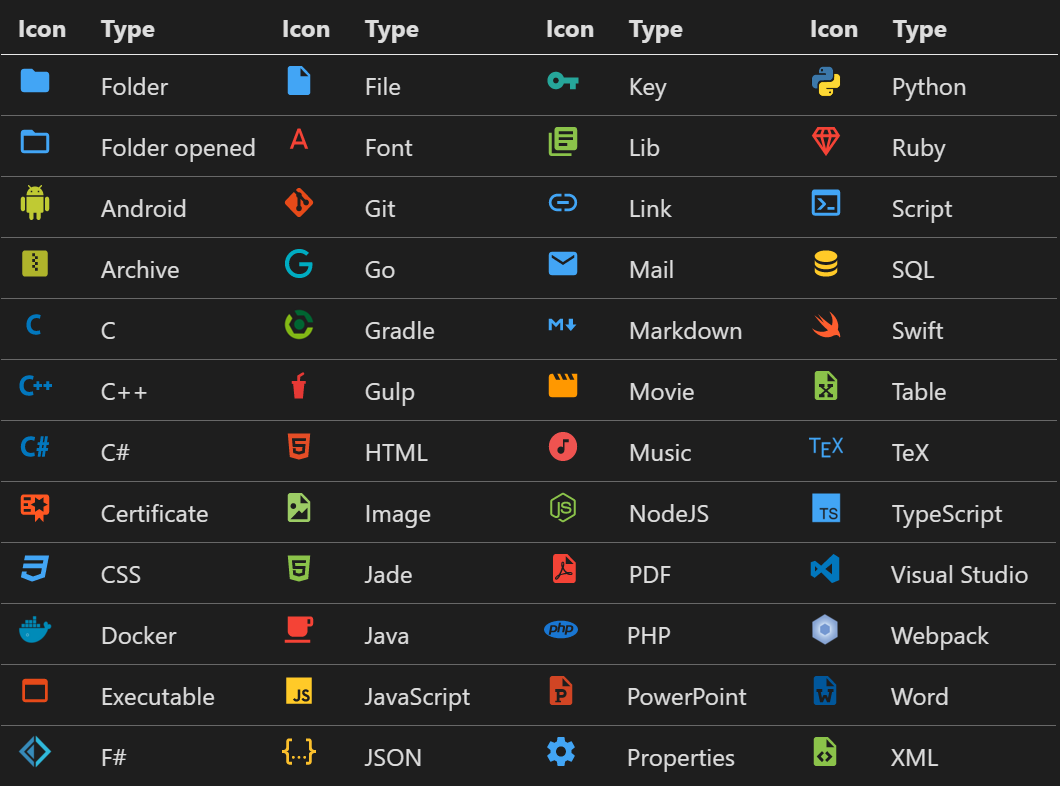
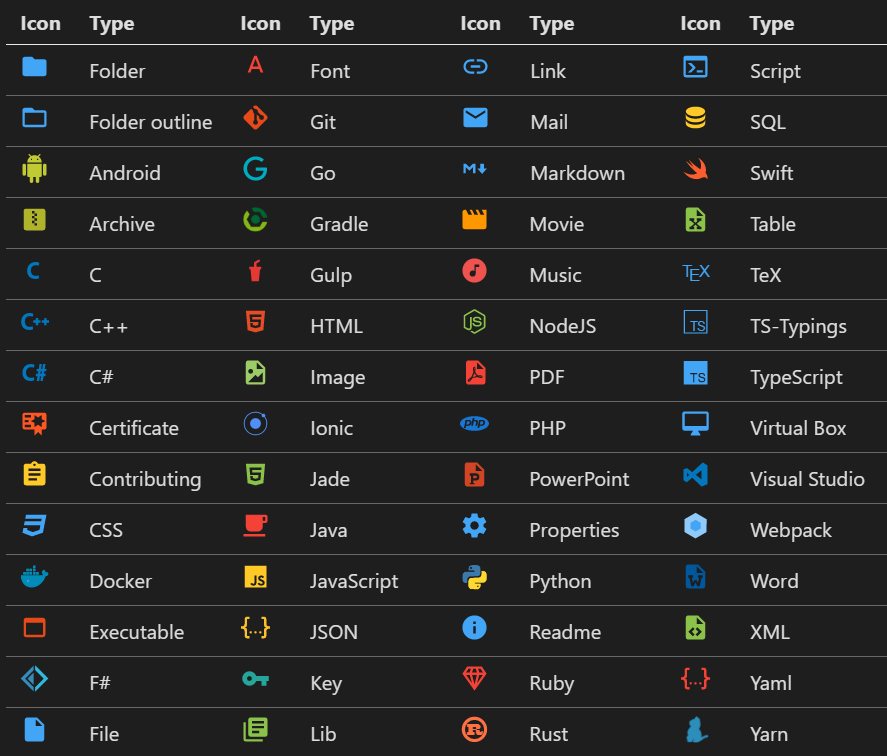
updated iconset image

diff --git a/src/allicons.md b/src/allicons.md
@@ -8,6 +8,7 @@
 |<img src="./../fileicons/icons/cpp.svg" width="20px">|C++|
 |<img src="./../fileicons/icons/csharp.svg" width="20px">|C#|
 |<img src="./../fileicons/icons/certificate.svg" width="20px">|Certificate|
+|<img src="./../fileicons/icons/contributing.svg" width="20px">|Contributing|
 |<img src="./../fileicons/icons/css.svg" width="20px">|CSS|
 |<img src="./../fileicons/icons/docker.svg" width="20px">|Docker|
 |<img src="./../fileicons/icons/exe.svg" width="20px">|Executable|
@@ -20,6 +21,7 @@
 |<img src="./../fileicons/icons/gulp.svg" width="20px">|Gulp|
 |<img src="./../fileicons/icons/html.svg" width="20px">|HTML|
 |<img src="./../fileicons/icons/image.svg" width="20px">|Image|
+|<img src="./../fileicons/icons/ionic.svg" width="20px">|Ionic|
 |<img src="./../fileicons/icons/jade.svg" width="20px">|Jade|
 |<img src="./../fileicons/icons/java.svg" width="20px">|Java|
 |<img src="./../fileicons/icons/javascript.svg" width="20px">|JavaScript|
@@ -37,15 +39,20 @@
 |<img src="./../fileicons/icons/powerpoint.svg" width="20px">|PowerPoint|
 |<img src="./../fileicons/icons/settings.svg" width="20px">|Properties|
 |<img src="./../fileicons/icons/python.svg" width="20px">|Python|
+|<img src="./../fileicons/icons/readme.svg" width="20px">|Readme|
 |<img src="./../fileicons/icons/ruby.svg" width="20px">|Ruby|
+|<img src="./../fileicons/icons/rust.svg" width="20px">|Rust|
 |<img src="./../fileicons/icons/console.svg" width="20px">|Script|
 |<img src="./../fileicons/icons/database.svg" width="20px">|SQL|
 |<img src="./../fileicons/icons/swift.svg" width="20px">|Swift|
 |<img src="./../fileicons/icons/table.svg" width="20px">|Table|
 |<img src="./../fileicons/icons/tex.svg" width="20px">|TeX|
 |<img src="./../fileicons/icons/typescript.svg" width="20px">|TypeScript|
+|<img src="./../fileicons/icons/typescript-def.svg" width="20px">|TS-Typings|
 |<img src="./../fileicons/icons/virtual.svg" width="20px">|Virtual Box|
 |<img src="./../fileicons/icons/visualstudio.svg" width="20px">|Visual Studio|
 |<img src="./../fileicons/icons/webpack.svg" width="20px">|Webpack|
 |<img src="./../fileicons/icons/word.svg" width="20px">|Word|
 |<img src="./../fileicons/icons/xml.svg" width="20px">|XML|
+|<img src="./../fileicons/icons/yaml.svg" width="20px">|Yaml|
+|<img src="./../fileicons/icons/yarn.svg" width="20px">|Yarn|
